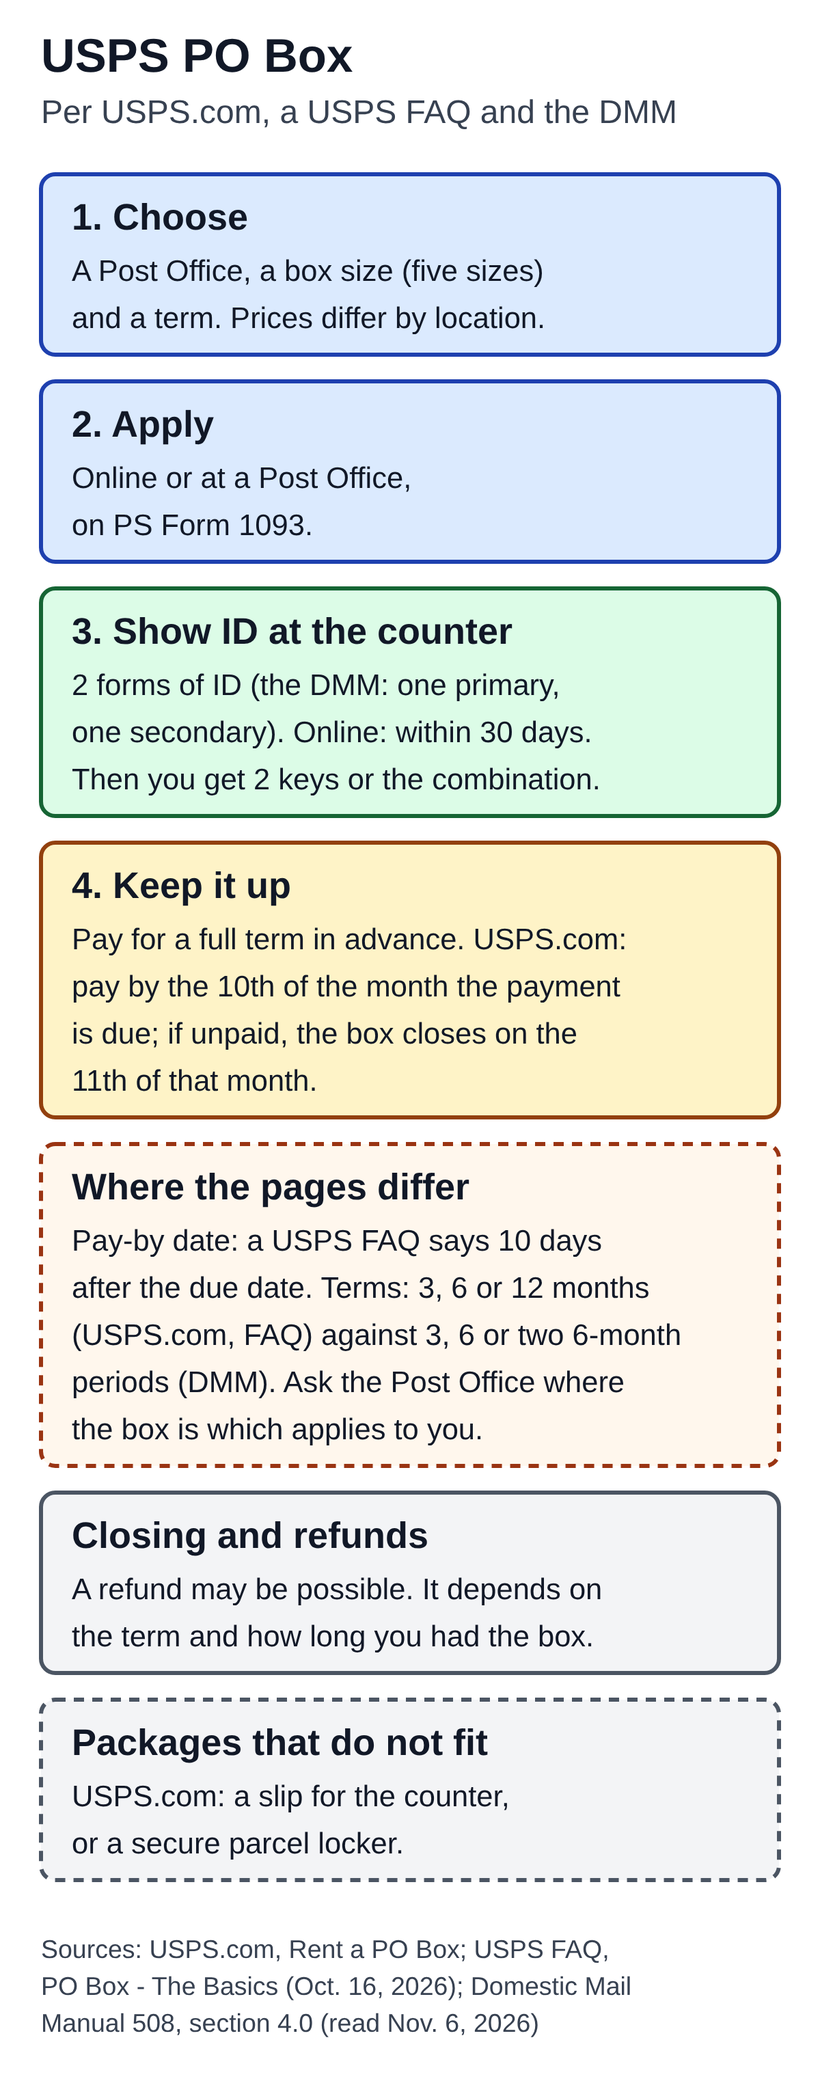
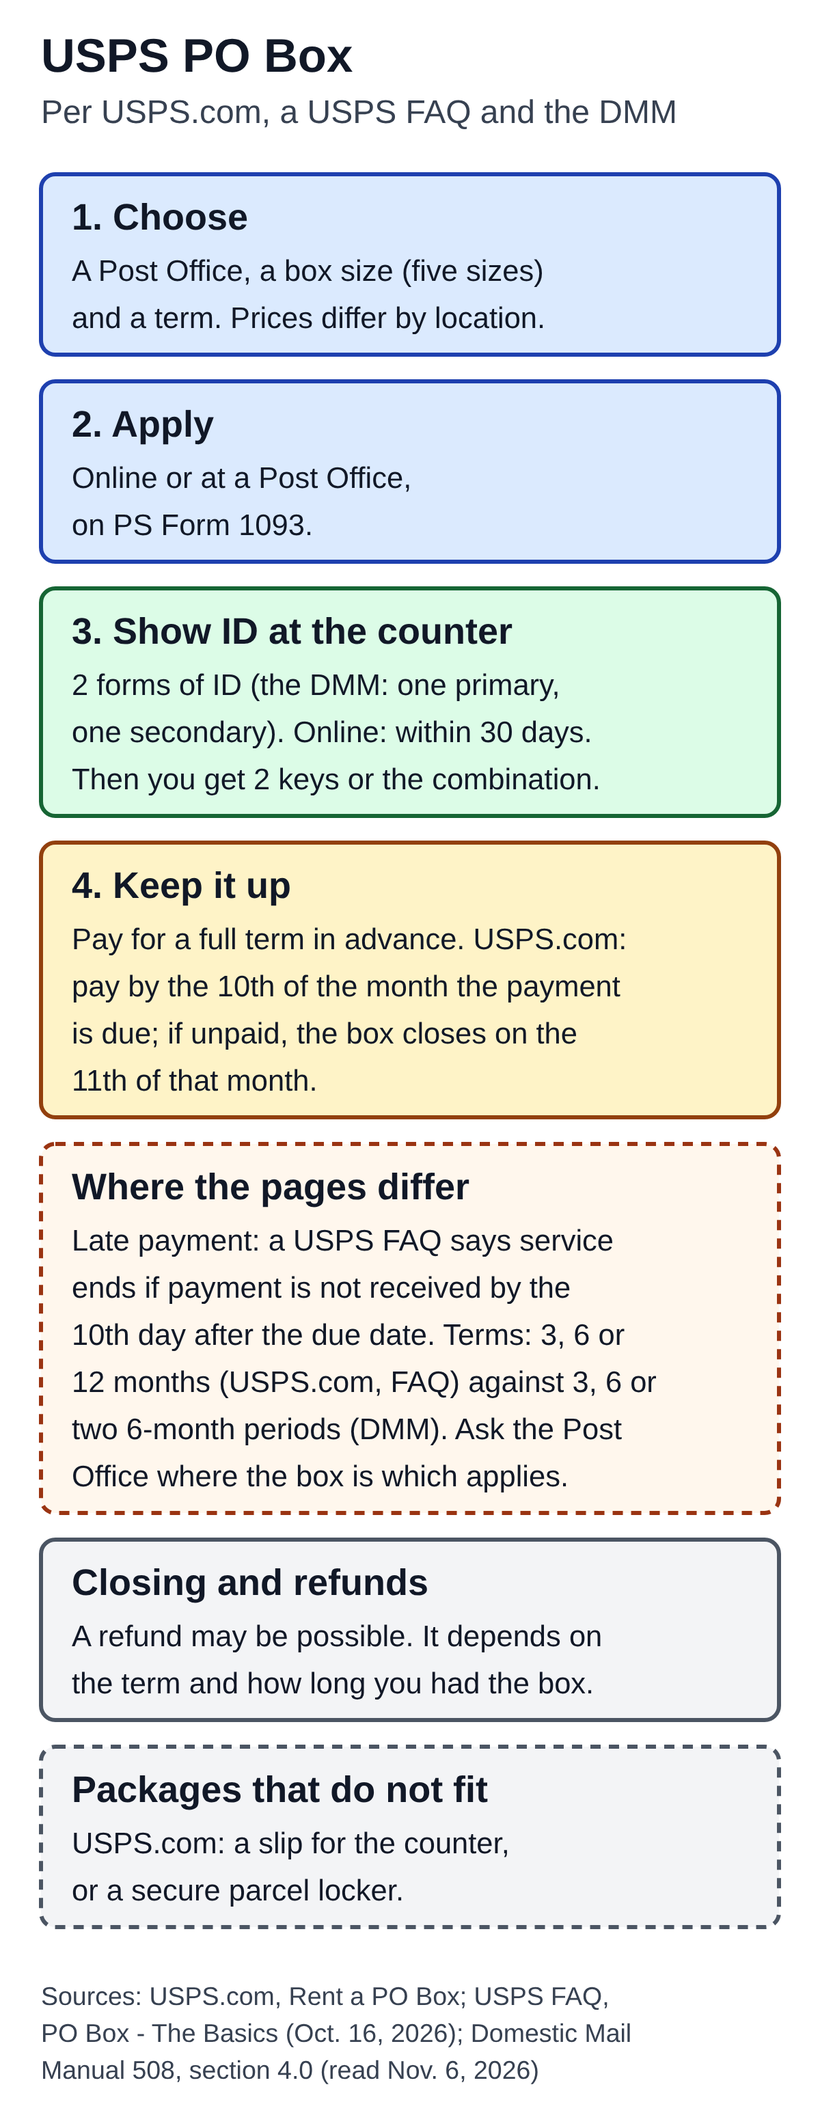
PO Box post: Gate 2 round 2 FIX (late-payment wording in diagram, alt and body)
Claude-Session: https://claude.ai/code/session_01BXtGEA3Qzg6u2ejRb8jbFU

diff --git a/docs/content-backlog.md b/docs/content-backlog.md
@@ -57,7 +57,7 @@ Pilot 12 plan: 12 published + 0 ready + 0 draft + 0 briefs = 12 slots, 4 per lan
 | 21 | `federal-holidays-2027-list` | Federal Holidays in 2027: The Full List and Observed Dates | `federal holidays 2027` | published (moved to ready 2026-11-04 with user approval; Gate 2 round 2 = PASS; WordPress draft post 75 created 2026-11-04; OPM and statute re-read 2026-11-04 right before handoff, no change; **user published 2026-11-04 02:57 site time**; live URL https://statesideexplained.com/federal-holidays-2027-list/ ; live QA passed 2026-11-04, see `editorial/qa/federal-holidays-2027-list.md`) | third-slot candidate 2 (not counted) | Lane: US dates, seasons and holidays. Not briefed; nothing drafted. Official source read 2026-10-29: OPM Federal Holidays page, 2027 tab (11 holidays, observed dates marked; cites 5 U.S.C. 6103). **Partial overlap** with `federal-holiday-weekend-observed` (already shows the four 2027 weekend rows) and `thanksgiving-2026-date` (Thanksgiving 2027): the new article would be the full list and would link to both. Difficulty low. Time pattern (estimate, not measured): the phrase 'federal holidays 2026' rose from about 14 in mid-October 2025 to 56 in late December and peaked in early January 2026 in one Trends comparison (relative); so publish by early December 2026. Volume not measured. Mandatory re-read of OPM before publishing. **User decision 2026-10-29: record as a late-November preparation candidate.** No brief or draft started; plan: brief and source notes in the second half of November, publish by early December (estimate, from the relative Trends pattern). **Brief and source notes 2026-11-04 (user: scope separate from the weekend-holiday post):** `research/briefs/federal-holidays-2027-list.md`, `research/sources/federal-holidays-2027-list.md` (OPM 2027 tab 11 rows, OPM 2028 tab Dec. 31 row, 5 U.S.C. 6103(a)(b)(1); all 11 dates recomputed and matched). Scope split: this article = the full 2027 list with weekdays, one-phrase date rules and moved-date marks; the weekend post keeps the rule and the 2026 to 2028 examples; no USPS, bank or school schedules. Trends (relative): 'federal holidays 2027' read 16 on Nov. 1, 2026, the same as 'federal holidays 2026' on Nov. 2, 2025, which then rose to a Jan. 2026 peak; the weekend post's phrase reads about 0. Plan: draft in the second half of November, publish by early December (estimate); mandatory OPM re-read. Open: scope approval, timing, Inauguration Day sentence. Post-pilot (not counted). **Drafted 2026-11-04 (user approved scope):** `content/drafts/federal-holidays-2027-list.md` (about 916 words), diagram `assets/optimized/federal-holidays-2027-list.png` (+ SVG in `assets/raw/`), Gate 1 QA `editorial/qa/federal-holidays-2027-list.md` (21 of 21 claims pass; OPM 2027 and 2028 tabs, 5 U.S.C. 6103 and both linked live posts re-checked by script). Full OPM 2027 list with weekdays and one-phrase rules; Dec. 31, 2027 kept apart; linked to the weekend post and the Thanksgiving date post. Plan: Gate 2 by SHA after the user pushes; publish early December (estimate); mandatory OPM re-read at approval and before publishing. |
 | 22 | `tsa-laptops-at-checkpoint` | Do You Have to Take Your Laptop Out at TSA? | `do you have to take your laptop out at tsa` | idea | third-slot candidate 3 (not counted) | Lane: airport security rules. Not briefed; nothing drafted. Official sources read 2026-10-29: TSA 'Laptops' item (last updated July 15, 2026: remove the laptop and put it in a separate bin; PreCheck travelers do not need to remove laptops) and TSA 'Computed Tomography' page (no date shown: with CT screening, laptops are allowed to remain inside the bag; the goal is to keep laptops and 3-1-1 liquids in the bag in the future). **Partial overlap** with the PreCheck post (laptops stay in the bag in PreCheck lanes) and the 3-1-1 post. Gaps: the pages do not say which airports or lanes use CT, and the CT page has no date. Difficulty low to medium. Demand not measured; the exact phrases measured near zero in Trends (relative; phrase variants may differ). Weakest of the three. |
 | 23 | `vape-on-a-plane-tsa-faa` | Can You Bring a Vape on a Plane? What TSA and the FAA Say | `can you bring a vape on a plane` | **published 2026-11-06** (post 85, media 84; Gate 1 PASS; Gate 2 PASS on `bed1e85`) | post-pilot (not counted) | Lane: airport security rules. Chosen 2026-11-06 on the user's request for two new TSA/airport and USPS candidates. Demand (Google Trends, US, 12 months, relative index only, not volume): the vape phrase was the anchor in two comparison batches (average about 5.7 to 11.4); no overlap with the 17 live posts (power bank post is linked for spare batteries). Sources read 2026-11-06: TSA e-cigarettes page (last updated March 29, 2023), FAA PackSafe e-cigarettes page (updated April 13, 2026), FAA news item of Jan. 17, 2020, 49 CFR 175.10(a)(19) (eCFR up to date as of 11/04/2026); no source conflict. Brief `research/briefs/vape-on-a-plane-tsa-faa.md`, sources `research/sources/vape-on-a-plane-tsa-faa.md`, draft `content/drafts/vape-on-a-plane-tsa-faa.md` (about 1,100 words), diagram `assets/optimized/vape-on-a-plane-tsa-faa.png` (+ SVG in `assets/raw/`), QA `editorial/qa/vape-on-a-plane-tsa-faa.md` (19 of 19 claims, 7 of 7 image checks). Open: the 2020 FAA use-on-board statement (cites no regulation; attributed and dated), age of the TSA page, e-liquid and disposables out of scope. **Gate 2 PASS (ChatGPT, base `bed1e85`, user-reported 2026-11-06).** Moved to `content/ready/`, WordPress draft post 85 (media 84) made, phone preview at 375 and 320 px clean, final re-read of all four sources 2026-11-06 (no change), published 2026-11-06 08:24:50 UTC by Claude under the standing rule; live QA passed (see `editorial/qa/` record). https://statesideexplained.com/vape-on-a-plane-tsa-faa/ . No indexing request. |
-| 24 | `usps-po-box-how-it-works` | How Does a USPS PO Box Work? Sizes, ID and Service Periods | `how does a usps po box work` | draft (Gate 1 PASS 2026-11-06; waiting for Gate 2 by commit SHA) | post-pilot (not counted) | Lane: postal service and stamps. Chosen 2026-11-06. Demand (Google Trends, US, 12 months, relative index only): 'usps po box' averaged 71.7 against 11.4 for the vape anchor in the same comparison; caution: a short phrase that is partly navigational and price-driven, and the article gives no fees. No overlap with live posts (mail forwarding post is an internal-link candidate, to decide at Gate 2). Sources read 2026-11-06: USPS.com 'Rent a PO Box' (no date shown) and DMM 508 section 4.0 (no date shown); they differ in wording on service periods (3, 6, 12 months vs 3-, 6- or two 6-month) and identification (2 forms vs one primary and one secondary; DMM 608.10.3 and 608.10.4 not read); both shown, neither chosen. Brief `research/briefs/usps-po-box-how-it-works.md`, sources `research/sources/usps-po-box-how-it-works.md`, draft `content/drafts/usps-po-box-how-it-works.md` (about 1,366 words), diagram `assets/optimized/usps-po-box-how-it-works.png` (+ SVG in `assets/raw/`), QA `editorial/qa/usps-po-box-how-it-works.md` (28 of 28 claims, 7 of 7 image checks; one keys sentence fixed at Gate 1). Package Intercept stays a backlog candidate. **Gate 2 round 1 (base `bed1e85`) = FIX, applied 2026-11-06:** diagram and alt now give the 10th/11th by the month the payment is due; the USPS FAQ 'PO Box - The Basics' (Oct. 16, 2026) added as S3 (10 days after the due date; 12-month term; refund conditions); terms and deadline shown as differing wording with the limit stated and a pointer to the Post Office where the box is; refund wording conditional with a link to USPS's refund details; diagram and alt rebuilt; 16 of 16 changed-part checks pass. Next: push, Gate 2 re-review of the changed parts by the new SHA; then under the standing rule: ready, WordPress draft, re-read of all three sources right before publishing, publish if unchanged, live QA, records. |
+| 24 | `usps-po-box-how-it-works` | How Does a USPS PO Box Work? Sizes, ID and Service Periods | `how does a usps po box work` | draft (Gate 1 PASS 2026-11-06; waiting for Gate 2 by commit SHA) | post-pilot (not counted) | Lane: postal service and stamps. Chosen 2026-11-06. Demand (Google Trends, US, 12 months, relative index only): 'usps po box' averaged 71.7 against 11.4 for the vape anchor in the same comparison; caution: a short phrase that is partly navigational and price-driven, and the article gives no fees. No overlap with live posts (mail forwarding post is an internal-link candidate, to decide at Gate 2). Sources read 2026-11-06: USPS.com 'Rent a PO Box' (no date shown) and DMM 508 section 4.0 (no date shown); they differ in wording on service periods (3, 6, 12 months vs 3-, 6- or two 6-month) and identification (2 forms vs one primary and one secondary; DMM 608.10.3 and 608.10.4 not read); both shown, neither chosen. Brief `research/briefs/usps-po-box-how-it-works.md`, sources `research/sources/usps-po-box-how-it-works.md`, draft `content/drafts/usps-po-box-how-it-works.md` (about 1,366 words), diagram `assets/optimized/usps-po-box-how-it-works.png` (+ SVG in `assets/raw/`), QA `editorial/qa/usps-po-box-how-it-works.md` (28 of 28 claims, 7 of 7 image checks; one keys sentence fixed at Gate 1). Package Intercept stays a backlog candidate. **Gate 2 round 1 (base `bed1e85`) = FIX, applied 2026-11-06:** diagram and alt now give the 10th/11th by the month the payment is due; the USPS FAQ 'PO Box - The Basics' (Oct. 16, 2026) added as S3 (10 days after the due date; 12-month term; refund conditions); terms and deadline shown as differing wording with the limit stated and a pointer to the Post Office where the box is; refund wording conditional with a link to USPS's refund details; diagram and alt rebuilt; 16 of 16 changed-part checks pass. **Gate 2 round 2 (base `78ead03`) = FIX, applied 2026-11-06:** the diagram card's 'Pay-by date' label changed to 'Late payment: a USPS FAQ says service ends if payment is not received by the 10th day after the due date' (diagram, alt, body checked against the FAQ). Next: push, Gate 2 re-review of the changed parts by the new SHA; then under the standing rule: ready, WordPress draft, re-read of all three sources right before publishing, publish if unchanged, live QA, records. |
 
 ## Rejected
 

diff --git a/content/drafts/usps-po-box-how-it-works.md b/content/drafts/usps-po-box-how-it-works.md
@@ -8,7 +8,7 @@ status: draft
 date: 2026-11-06
 internal_link_candidates: usps-mail-forwarding-how-long (published; one link in the closing section if it fits at Gate 2)
 image: assets/optimized/usps-po-box-how-it-works.png
-image_alt: "Diagram of how a USPS PO Box works, per USPS.com, a USPS FAQ and the Domestic Mail Manual. 1. Choose: a Post Office, a box size (five sizes) and a term; prices differ by location. 2. Apply: online or at a Post Office, on PS Form 1093. 3. Show ID at the counter: 2 forms of ID (the DMM: one primary, one secondary); online applicants within 30 days; then you get 2 keys or the combination. 4. Keep it up: pay for a full term in advance; USPS.com says pay by the 10th of the month the payment is due, and an unpaid box closes on the 11th of that month. Where the pages differ: a USPS FAQ says 10 days after the due date; terms are 3, 6 or 12 months (USPS.com, FAQ) against 3, 6 or two 6-month periods (DMM); ask the Post Office where the box is. Closing and refunds: a refund may be possible, depending on the term and how long you had the box. Packages that do not fit: a slip for the counter or a secure parcel locker (USPS.com). Sources: USPS.com, Rent a PO Box; USPS FAQ, PO Box - The Basics (Oct. 16, 2026); Domestic Mail Manual 508, section 4.0 (read Nov. 6, 2026)."
+image_alt: "Diagram of how a USPS PO Box works, per USPS.com, a USPS FAQ and the Domestic Mail Manual. 1. Choose: a Post Office, a box size (five sizes) and a term; prices differ by location. 2. Apply: online or at a Post Office, on PS Form 1093. 3. Show ID at the counter: 2 forms of ID (the DMM: one primary, one secondary); online applicants within 30 days; then you get 2 keys or the combination. 4. Keep it up: pay for a full term in advance; USPS.com says pay by the 10th of the month the payment is due, and an unpaid box closes on the 11th of that month. Where the pages differ: a USPS FAQ says service ends if payment has not been received by the 10th day after the due date; terms are 3, 6 or 12 months (USPS.com, FAQ) against 3, 6 or two 6-month periods (DMM); ask the Post Office where the box is. Closing and refunds: a refund may be possible, depending on the term and how long you had the box. Packages that do not fit: a slip for the counter or a secure parcel locker (USPS.com). Sources: USPS.com, Rent a PO Box; USPS FAQ, PO Box - The Basics (Oct. 16, 2026); Domestic Mail Manual 508, section 4.0 (read Nov. 6, 2026)."
 ---
 
 # How Does a USPS PO Box Work? Sizes, ID and Service Periods
@@ -17,7 +17,7 @@ image_alt: "Diagram of how a USPS PO Box works, per USPS.com, a USPS FAQ and the
 
 This article covers what three official USPS sources say: the USPS.com page "Rent a PO Box", the USPS FAQ "PO Box - The Basics" (dated October 16, 2026), and section 4.0 of the Domestic Mail Manual (DMM 508), which sets the rules for PO Box service. The wording is as of November 6, 2026. The USPS.com page and the DMM show no update date. The article does not cover prices, free box service, Caller Service or business accounts.
 
-![Diagram of how a USPS PO Box works, per USPS.com, a USPS FAQ and the Domestic Mail Manual. 1. Choose: a Post Office, a box size (five sizes) and a term; prices differ by location. 2. Apply: online or at a Post Office, on PS Form 1093. 3. Show ID at the counter: 2 forms of ID (the DMM: one primary, one secondary); online applicants within 30 days; then you get 2 keys or the combination. 4. Keep it up: pay for a full term in advance; USPS.com says pay by the 10th of the month the payment is due, and an unpaid box closes on the 11th of that month. Where the pages differ: a USPS FAQ says 10 days after the due date; terms are 3, 6 or 12 months (USPS.com, FAQ) against 3, 6 or two 6-month periods (DMM); ask the Post Office where the box is. Closing and refunds: a refund may be possible, depending on the term and how long you had the box. Packages that do not fit: a slip for the counter or a secure parcel locker (USPS.com). Sources: USPS.com, Rent a PO Box; USPS FAQ, PO Box - The Basics (Oct. 16, 2026); Domestic Mail Manual 508, section 4.0 (read Nov. 6, 2026).](assets/optimized/usps-po-box-how-it-works.png)
+![Diagram of how a USPS PO Box works, per USPS.com, a USPS FAQ and the Domestic Mail Manual. 1. Choose: a Post Office, a box size (five sizes) and a term; prices differ by location. 2. Apply: online or at a Post Office, on PS Form 1093. 3. Show ID at the counter: 2 forms of ID (the DMM: one primary, one secondary); online applicants within 30 days; then you get 2 keys or the combination. 4. Keep it up: pay for a full term in advance; USPS.com says pay by the 10th of the month the payment is due, and an unpaid box closes on the 11th of that month. Where the pages differ: a USPS FAQ says service ends if payment has not been received by the 10th day after the due date; terms are 3, 6 or 12 months (USPS.com, FAQ) against 3, 6 or two 6-month periods (DMM); ask the Post Office where the box is. Closing and refunds: a refund may be possible, depending on the term and how long you had the box. Packages that do not fit: a slip for the counter or a secure parcel locker (USPS.com). Sources: USPS.com, Rent a PO Box; USPS FAQ, PO Box - The Basics (Oct. 16, 2026); Domestic Mail Manual 508, section 4.0 (read Nov. 6, 2026).](assets/optimized/usps-po-box-how-it-works.png)
 
 ## Sizes
 
@@ -51,7 +51,7 @@ All three say the 3-month option involves automatic recurring renewal. USPS.com 
 
 USPS.com lists four ways to pay: online with a credit or debit card, at a self-service kiosk, by mail (a check or money order payable to "U.S. Postal Service," sent to the Postmaster where the box is), or in person. You pay for a full rental period at the beginning.
 
-The pages give the payment deadline in different words. USPS.com says payments must be made by the 10th of the month the payment is due, and that if you do not pay, the box is closed on the 11th of that month. The USPS FAQ says that if payment has not been received by the 10th day after the due date, the service is terminated and incoming mail is returned to senders, and that box fees are due on either the 15th or the last day of the month, depending on the customer's billing cycle. The DMM gives no closing date: it says a renewal fee may be paid during the last 30 days of the service period but no later than its last day (4.4.4), and that the lock replacement fee also applies as a late payment charge when a box is renewed more than 10 days after the renewal due date (4.7.5). The DMM also lists failing to pay by the due date as one of the cases in which a box is surrendered. The pages do not say how these dates fit together, so this article does not give one deadline; the Post Office where the box is can tell you which date applies to your box.
+The pages describe the payment date and late payment in different words. USPS.com says payments must be made by the 10th of the month the payment is due, and that if you do not pay, the box is closed on the 11th of that month. The USPS FAQ says that if payment has not been received by the 10th day after the due date, the service is terminated and incoming mail is returned to senders, and that box fees are due on either the 15th or the last day of the month, depending on the customer's billing cycle. The DMM gives no closing date: it says a renewal fee may be paid during the last 30 days of the service period but no later than its last day (4.4.4), and that the lock replacement fee also applies as a late payment charge when a box is renewed more than 10 days after the renewal due date (4.7.5). The DMM also lists failing to pay by the due date as one of the cases in which a box is surrendered. The pages do not say how these dates fit together, so this article does not give one deadline; the Post Office where the box is can tell you which date applies to your box.
 
 If you close a box, USPS.com says you may be eligible for a refund, and that the amount depends on how long you have had the box. The USPS FAQ sets refund conditions by term (for example, it says a box on a 3-month term is not eligible for a refund once it is activated), and the DMM sets refund rules by service period in 4.6. See [USPS's refund details](https://faq.usps.com/s/article/PO-Box-The-Basics#refund) for the current conditions.
 

diff --git a/editorial/qa/usps-po-box-how-it-works.md b/editorial/qa/usps-po-box-how-it-works.md
@@ -110,3 +110,25 @@ Gate 1: **PASS** (28 of 28 claims, 7 of 7 image checks). Next: push, Gate 2 by c
 **Remaining open points:** P1 now reads: three sources, wording differences shown, not resolved; P2: USPS.com and the DMM carry no date, the FAQ is dated Oct. 16, 2026; the FAQ's late-fee amount and refund percentages are deliberately not used. Alt text is long (1,069 characters) because it mirrors seven cards; Gate 2 may ask to shorten it.
 
 **Result:** FIX applied; Gate 1 for the changed parts: PASS (16 of 16). Next: push; Gate 2 re-review of the changed parts by the new commit SHA.
+
+---
+
+## Gate 2 round 2 = FIX (ChatGPT, base `78ead03`) and the fix (2026-11-06)
+
+**FIX point:** the diagram's "Pay-by date" label made the FAQ's service-termination condition look like a payment deadline. Change only the diagram and alt (and check the body); no other item to be re-reviewed.
+
+**Source re-opened:** USPS FAQ "PO Box - The Basics" (dated Oct. 16, 2026), tested by script: "If we have not received your payment by the 10th day after the due date, your PO Box service will be terminated and all incoming mail will be returned to senders." (present); "After 10 days of nonpayment, your mail is treated as undeliverable mail and your PO Box is closed." (present); "Box fees are due either on the 15th or the last day of the month" (present). The FAQ gives this as what happens when payment has not been received by the 10th day after the due date, not as a pay-by date.
+
+**Changes (changed parts only):**
+
+| # | Where | Before | After |
+|---|---|---|---|
+| G1 | Diagram card "Where the pages differ" | "Pay-by date: a USPS FAQ says 10 days after the due date." | "Late payment: a USPS FAQ says service ends if payment is not received by the 10th day after the due date." |
+| G2 | Alt text (front matter and body, identical, 1,123 characters) | "a USPS FAQ says 10 days after the due date" | "a USPS FAQ says service ends if payment has not been received by the 10th day after the due date" |
+| G3 | Body, lead-in to the payment-date paragraph | "The pages give the payment deadline in different words." | "The pages describe the payment date and late payment in different words." (the FAQ sentence below it already read "if payment has not been received by the 10th day after the due date, the service is terminated and incoming mail is returned to senders") |
+
+**Check against the body and sources:** diagram G1, alt G2 and the body sentence now say the same thing as the FAQ; USPS.com's "by the 10th of the month the payment is due ... closed on the 11th of that month" (card 4, alt, body) is unchanged and labeled as USPS.com; the card still states that the pages are not reconciled and sends the reader to the Post Office where the box is.
+
+**Image:** `assets/optimized/usps-po-box-how-it-works.png` (1200 x 3114, 508,390 bytes, sha256 066722385c3a15ada3ca936f32ff932568e4330833afa688617b98e395db4f39) and `assets/raw/usps-po-box-how-it-works.svg` read back from the repository; text within the 745 px limit; rendered and read on screen; the card now has six lines and the page height grew by 46 px.
+
+**Result:** FIX applied; changed-part check: PASS (3 of 3). Other items not repeated, as instructed. Next: push; Gate 2 re-review of the changed parts by the new SHA; then under the standing rule: ready, WordPress draft, re-read of the three sources right before publishing, publish if unchanged, live QA, records.

diff --git a/docs/decision-log.md b/docs/decision-log.md
@@ -1353,3 +1353,7 @@ Gate 2 (ChatGPT) PASS at `61113c6`, reported by the user; no FIX. The user asked
 Under the standing rule: Gate 2 PASS on `bed1e85`; moved to ready; WordPress draft (post 85, media 84); phone preview clean; all four sources (TSA page, FAA PackSafe page, FAA news item, eCFR 175.10(a)(19)) re-read right before publishing with no change and no conflict; published 2026-11-06 08:24:50 UTC; live QA passed. Counts: 18 live (12 pilot, 6 post-pilot). The PO Box post waits for the Gate 2 re-review of the changed parts (new SHA after the user pushes `2ce096d`).
 
 **Open:** the user pushes the commits and sends the PO Box changed parts to Gate 2; Thanksgiving USPS notice check 2026-11-14 09:00 KST; TSA holiday food held.
+
+## 2026-11-06 (later) — PO Box Gate 2 round 2 (base `78ead03`): FIX applied
+
+The diagram label "Pay-by date" made the FAQ's service-termination condition read like a payment deadline. The FAQ was re-read: service is terminated if payment has not been received by the 10th day after the due date. Diagram, alt and one body lead-in sentence now say that; the USPS.com "10th of the month the payment is due" statement is unchanged and labeled as USPS.com. Only the changed parts were checked and recorded. Next: push; Gate 2 re-review of the changed parts by the new SHA.
